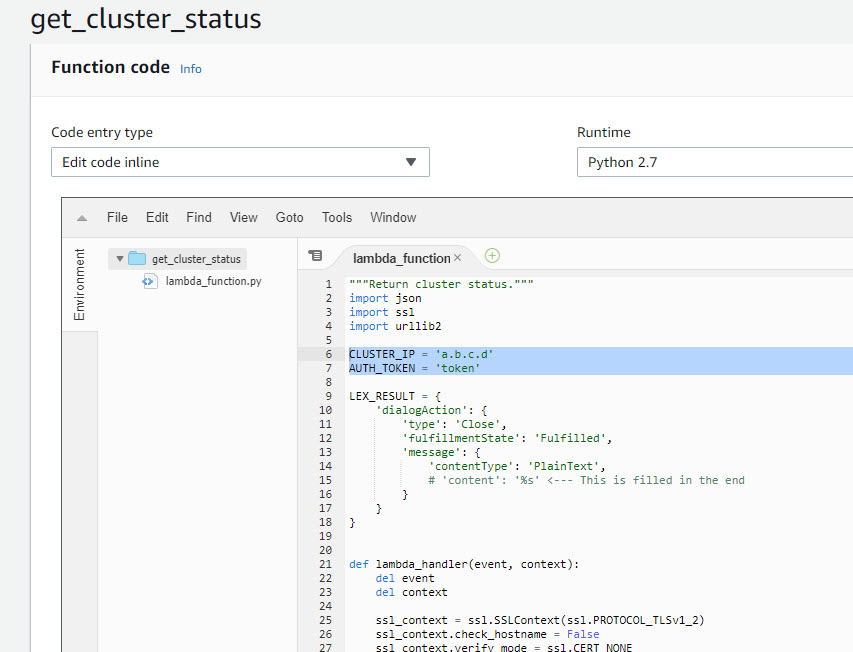
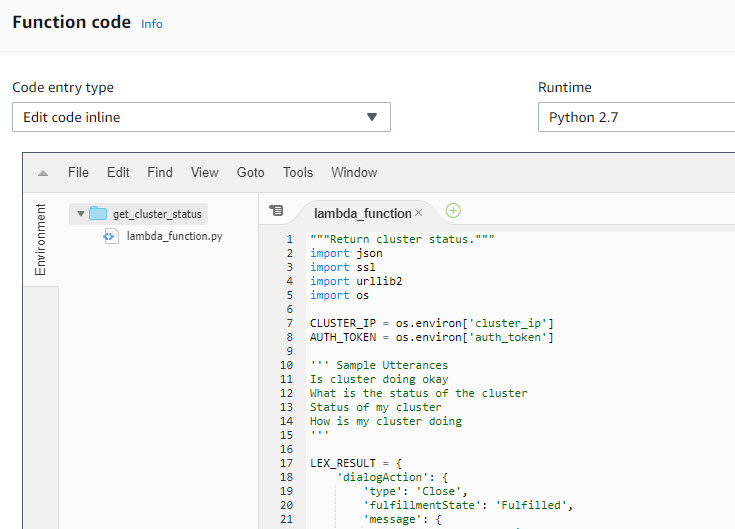
update docs
reflect the new usage of environmental variables

diff --git a/docs/QUICKSTART.md b/docs/QUICKSTART.md
@@ -240,10 +240,16 @@ Locate the Function Code window and delete any code that already exists in the l
 
 ![Function Code for get_cluster_status](/docs/images/get-cluster-status-function-code.jpg)
 
-Next, it's important to edit the value of two variables: CLUSTER_IP and AUTH_TOKEN.
+You can now click the **Save** button in the upper right corner of the window to save your progress. It should change from orange to a greyed-out color upon success.
 
-1.  CLUSTER_IP: Enter the IP address of a node in your cluster. Make sure it is reachable from the VPC network that you plan to use for Roxie. This will be covered in the next section.
-1.  AUTH_TOKEN: Enter the token created in the Generate a Rubrik API Token section.
+### Environmental Variables
+
+Next, it's important to add two environment variables: `cluster_ip` and `auth_token`. This can be done by scrolling down below the Function Code area and locating the Environmental Variables area.
+
+1.  `cluster_ip`: Enter the IP address of a node in your cluster. Make sure it is reachable from the VPC network that you plan to use for Roxie. This will be covered in the next section.
+1.  `auth_token`: Enter the token created in the Generate a Rubrik API Token section.
+
+![Function Code for get_cluster_status](/docs/images/environmental-variables.jpg)
 
 With those values updated, you can now click the **Save** button in the upper right corner of the window to save your progress. It should change from orange to a greyed-out color upon success.
 
